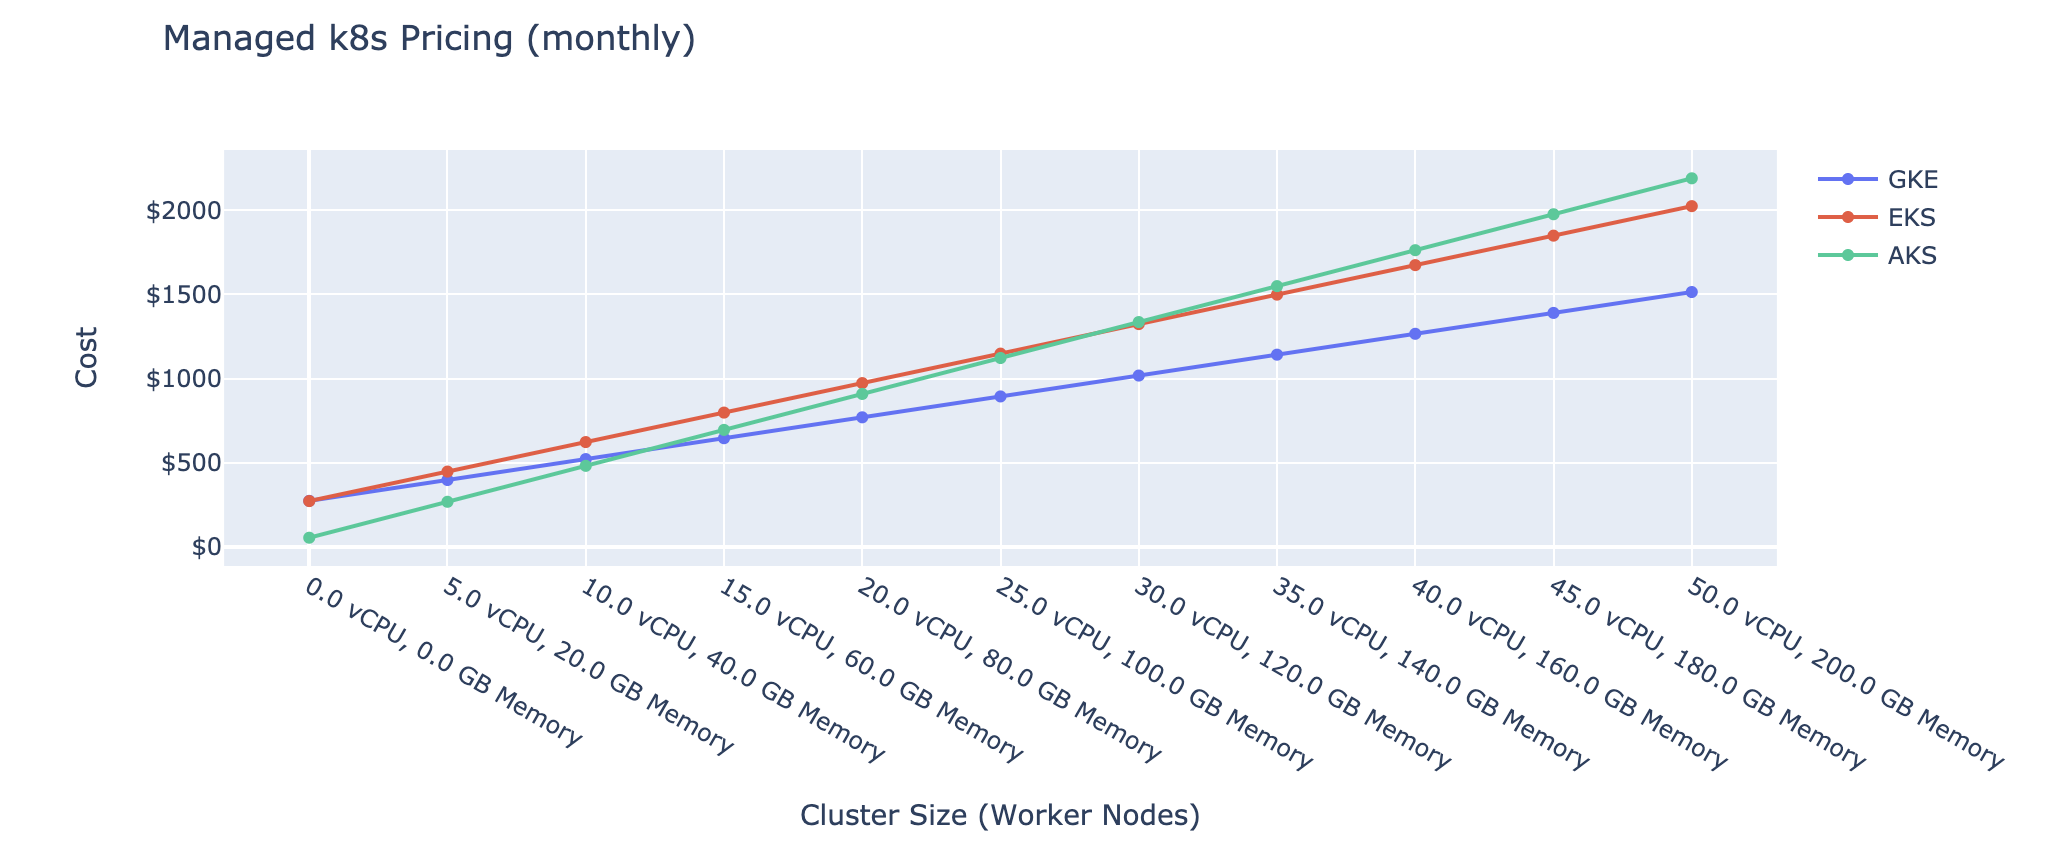
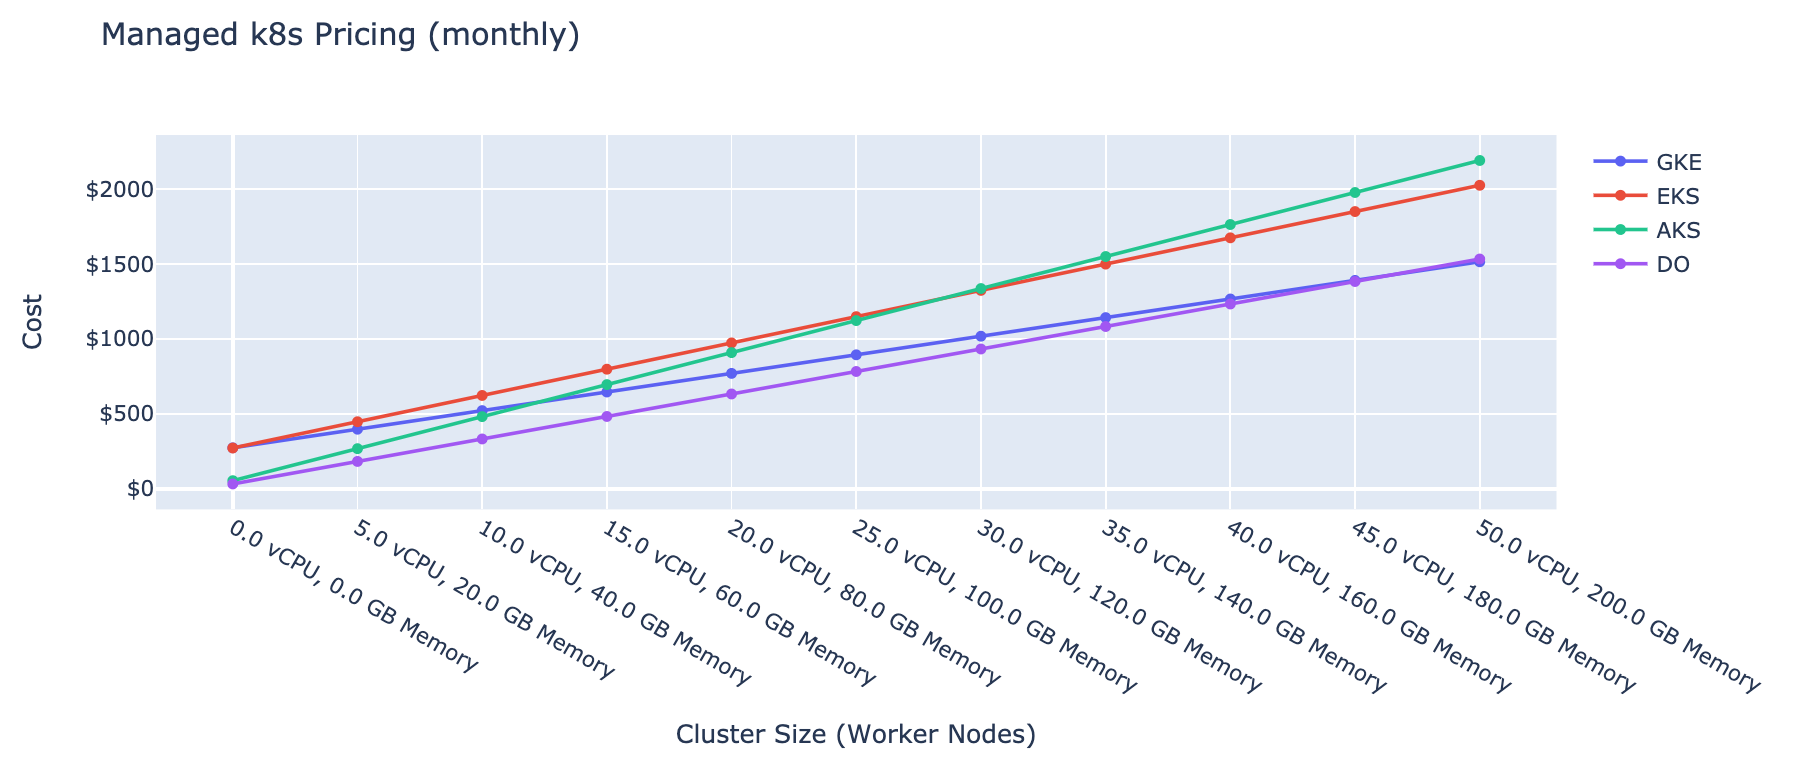
added digital ocean

diff --git a/content/posts/2020/03/managed-kubernetes-comparison/index.md b/content/posts/2020/03/managed-kubernetes-comparison/index.md
@@ -9,7 +9,8 @@ tags: [
   "Azure",
   "EKS",
   "GKE",
-  "AKS"
+  "AKS",
+  "Digital Ocean"
 ]
 categories: [
   "Comparison",
@@ -17,7 +18,7 @@ categories: [
 ]
 ---
 
-**TL;DR:** Azure doesn't charge for the compute resources used for the control plane, making AKS the cheapest for running many, smaller clusters. For running fewer, larger clusters GKE is the most affordable option. Also, running on spot/preemptible/low-priority nodes or long-term committed nodes makes a massive impact across all of the platforms.
+**TL;DR:** Azure and Digital Ocean don't charge for the compute resources used for the control plane, making AKS and DO the cheapest for running many, smaller clusters. For running fewer, larger clusters GKE is the most affordable option. Also, running on spot/preemptible/low-priority nodes or long-term committed nodes makes a massive impact across all of the platforms.
 
 ![Price Graph](/static/images/k8s-price-graph.png)
 
@@ -44,6 +45,7 @@ This article will focus on:
 - Google Kubernetes Engine (GCP) -- [pricing calculator](https://cloud.google.com/products/calculator)
 - Elastic Kubernetes Service (AWS) -- [pricing calculator](https://calculator.s3.amazonaws.com/index.html)
 - Azure Kubernetes Service (Azure) -- [pricing calculator](https://azure.microsoft.com/en-us/pricing/calculator/)
+- Kubernetes on Digital Ocean -- [pricing page](https://www.digitalocean.com/pricing/)
 
 ### Cost Breakdown
 
@@ -83,19 +85,21 @@ If any of my calculations or pricing constants look incorrect, please let me kno
 
 There are too many variables to give much of a recommendation beyond my TL;DR up top, but here are some takeaways:
 
-- With the recent GKE change, AKS is now the only (of these 3) that doesn't charge for the control plane resources. If your architecture incorporates many small clusters (e.g. 1 cluster *per developer* or *per customer*) AKS has an advantage.
+- With the recent GKE change, AKS and DO is now the only (of these 3) that doesn't charge for the control plane resources. If your architecture incorporates many small clusters (e.g. 1 cluster *per developer* or *per customer*) AKS has an advantage.
 - Google's slightly cheaper compute resources result in lower cost as cluster sizes scale*.
-- Taking advantage of preemptible and/or committed use discounts can reduce costs by >50%.
-- While Google's data egress fees are  higher, the compute resources dominated the cost calculation (unless you are sending a significant amount of data out of the cluster).
+- Taking advantage of preemptible and/or committed use discounts can reduce costs by >50% (*NOTE:* Digital Ocean does not offer these types of discounts).
+- While Google's data egress fees are higher, the compute resources dominated the cost calculation (unless you are sending a significant amount of data out of the cluster).
 - Choosing machine types that match your workloads CPU and Memory needs will avoid paying for wasted capacity.
-
-**NOTE:* I used general-purpose compute node types for all 3 clouds (n1 GCP Compute Engine instances, m5 AWS ec2 instances, and Dv3 Azure virtual machines). Further exploration could be done across the burstable and entry-level VM types. Also, it appeared that pricing for VMs scaled linearly with # of vCPU and GB of memory, but I am not sure that assumption holds as you move towards some of the less standard memory/cpu ratios.
+- Digital Ocean charges relatively less for vCPUs and more for memory which could be an important consideration depending on the nature of the compute workloads.
+  
+**NOTE:* I used general-purpose compute node types for all 4 clouds (n1 GCP Compute Engine instances, m5 AWS ec2 instances, D2v3 Azure virtual machines, and dedicated CPU DO droplets). Further exploration could be done across the burstable and entry-level VM types. Also, it appeared that pricing for VMs scaled linearly with # of vCPU and GB of memory, but I am not sure that assumption holds as you move towards some of the less standard memory/cpu ratios.
 
 This article ["The Ultimate Kubernetes Cost Guide: AWS vs GCP vs Azure vs Digital Ocean"](https://www.replex.io/blog/the-ultimate-kubernetes-cost-guide-aws-vs-gce-vs-azure-vs-digital-ocean) published in 2018 used a single reference cluster with 100 vCPU cores and 400 GB of memory. As a point of comparison, here is how much my calculation shows that cluster would cost (using on-demand prices) on each of these platforms. 
 
 - AKS: $51,465/year
 - EKS: $43,138/year
 - GKE: $30,870/year
+- DO: $36,131/year
 
 ---
 
